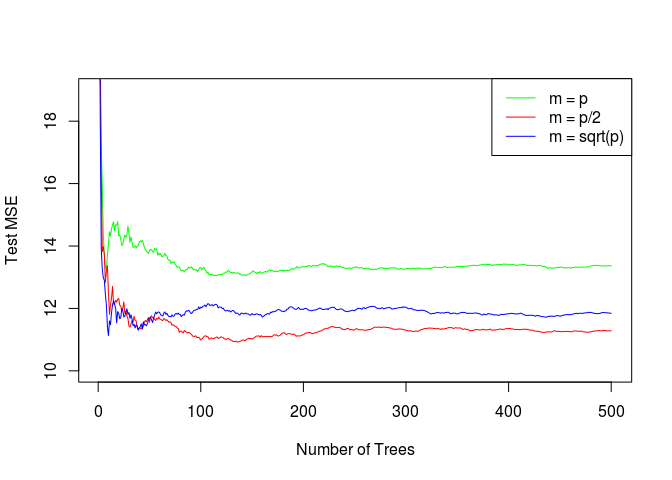
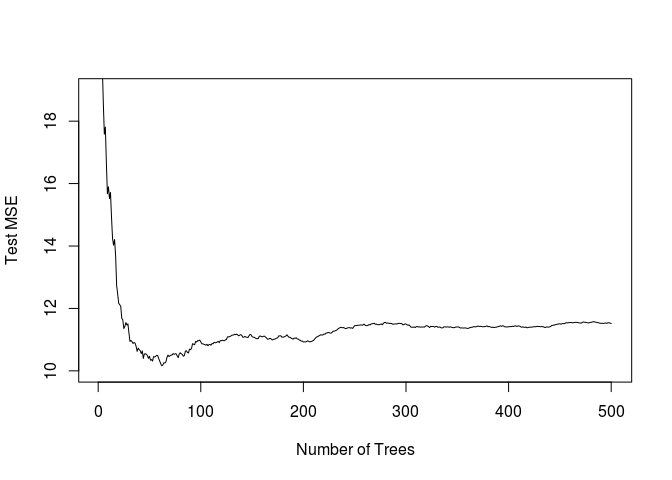
Homework 4 complete

diff --git a/homework-4.md b/homework-4.md
@@ -15,7 +15,7 @@ Answer 1
 
 ``` r
 set.seed(1234)
-
+?randomForest
 for (k in 1:20){
   inTraining <- createDataPartition(Boston$medv, p = .75, list = F)
   train_boston <- Boston[inTraining, ]
@@ -29,11 +29,11 @@ for (k in 1:20){
   for(i in 1:7){
     cat(sprintf('Trial: %s, mtry: %s --- %s\n', k, mtry[i], Sys.time()))
     for(j in 1:20){ 
-      rf_train <- randomForest(medv ~ .,
+      rf_train1 <- randomForest(medv ~ .,
                                data = train_boston,
                                mtry = mtry[i],
                                ntree = ntree[j])
-      mse <- mean((predict(rf_train, newdata = test_boston) - test_boston$medv)^2)
+      mse <- mean((predict(rf_train1, newdata = test_boston) - test_boston$medv)^2)
       results[(i-1)*20 + j, ] <- c(k, mtry[i], ntree[j], mse)
     }
   }
@@ -43,149 +43,158 @@ for (k in 1:20){
   else(
   results_total <- results
   )
+  #plot(1:500, rf_train1$mse, type = "l", xlab = "Number of Trees", ylab = "Test MSE", ylim = c(10, 19))
 }
 ```
 
-    ## Trial: 1, mtry: 3 --- 2019-03-10 11:48:28
-    ## Trial: 1, mtry: 4 --- 2019-03-10 11:48:32
-    ## Trial: 1, mtry: 5 --- 2019-03-10 11:48:38
-    ## Trial: 1, mtry: 6 --- 2019-03-10 11:48:45
-    ## Trial: 1, mtry: 7 --- 2019-03-10 11:48:52
-    ## Trial: 1, mtry: 8 --- 2019-03-10 11:49:01
-    ## Trial: 1, mtry: 9 --- 2019-03-10 11:49:10
-    ## Trial: 2, mtry: 3 --- 2019-03-10 11:49:21
-    ## Trial: 2, mtry: 4 --- 2019-03-10 11:49:25
-    ## Trial: 2, mtry: 5 --- 2019-03-10 11:49:31
-    ## Trial: 2, mtry: 6 --- 2019-03-10 11:49:37
-    ## Trial: 2, mtry: 7 --- 2019-03-10 11:49:45
-    ## Trial: 2, mtry: 8 --- 2019-03-10 11:49:53
-    ## Trial: 2, mtry: 9 --- 2019-03-10 11:50:03
-    ## Trial: 3, mtry: 3 --- 2019-03-10 11:50:13
-    ## Trial: 3, mtry: 4 --- 2019-03-10 11:50:18
-    ## Trial: 3, mtry: 5 --- 2019-03-10 11:50:23
-    ## Trial: 3, mtry: 6 --- 2019-03-10 11:50:30
-    ## Trial: 3, mtry: 7 --- 2019-03-10 11:50:37
-    ## Trial: 3, mtry: 8 --- 2019-03-10 11:50:46
-    ## Trial: 3, mtry: 9 --- 2019-03-10 11:50:55
-    ## Trial: 4, mtry: 3 --- 2019-03-10 11:51:05
-    ## Trial: 4, mtry: 4 --- 2019-03-10 11:51:10
-    ## Trial: 4, mtry: 5 --- 2019-03-10 11:51:16
-    ## Trial: 4, mtry: 6 --- 2019-03-10 11:51:22
-    ## Trial: 4, mtry: 7 --- 2019-03-10 11:51:30
-    ## Trial: 4, mtry: 8 --- 2019-03-10 11:51:38
-    ## Trial: 4, mtry: 9 --- 2019-03-10 11:51:48
-    ## Trial: 5, mtry: 3 --- 2019-03-10 11:51:58
-    ## Trial: 5, mtry: 4 --- 2019-03-10 11:52:03
-    ## Trial: 5, mtry: 5 --- 2019-03-10 11:52:08
-    ## Trial: 5, mtry: 6 --- 2019-03-10 11:52:15
-    ## Trial: 5, mtry: 7 --- 2019-03-10 11:52:23
-    ## Trial: 5, mtry: 8 --- 2019-03-10 11:52:31
-    ## Trial: 5, mtry: 9 --- 2019-03-10 11:52:40
-    ## Trial: 6, mtry: 3 --- 2019-03-10 11:52:50
-    ## Trial: 6, mtry: 4 --- 2019-03-10 11:52:55
-    ## Trial: 6, mtry: 5 --- 2019-03-10 11:53:01
-    ## Trial: 6, mtry: 6 --- 2019-03-10 11:53:07
-    ## Trial: 6, mtry: 7 --- 2019-03-10 11:53:15
-    ## Trial: 6, mtry: 8 --- 2019-03-10 11:53:23
-    ## Trial: 6, mtry: 9 --- 2019-03-10 11:53:33
-    ## Trial: 7, mtry: 3 --- 2019-03-10 11:53:43
-    ## Trial: 7, mtry: 4 --- 2019-03-10 11:53:48
-    ## Trial: 7, mtry: 5 --- 2019-03-10 11:53:53
-    ## Trial: 7, mtry: 6 --- 2019-03-10 11:54:00
-    ## Trial: 7, mtry: 7 --- 2019-03-10 11:54:07
-    ## Trial: 7, mtry: 8 --- 2019-03-10 11:54:15
-    ## Trial: 7, mtry: 9 --- 2019-03-10 11:54:25
-    ## Trial: 8, mtry: 3 --- 2019-03-10 11:54:35
-    ## Trial: 8, mtry: 4 --- 2019-03-10 11:54:40
-    ## Trial: 8, mtry: 5 --- 2019-03-10 11:54:45
-    ## Trial: 8, mtry: 6 --- 2019-03-10 11:54:52
-    ## Trial: 8, mtry: 7 --- 2019-03-10 11:54:59
-    ## Trial: 8, mtry: 8 --- 2019-03-10 11:55:07
-    ## Trial: 8, mtry: 9 --- 2019-03-10 11:55:16
-    ## Trial: 9, mtry: 3 --- 2019-03-10 11:55:27
-    ## Trial: 9, mtry: 4 --- 2019-03-10 11:55:31
-    ## Trial: 9, mtry: 5 --- 2019-03-10 11:55:37
-    ## Trial: 9, mtry: 6 --- 2019-03-10 11:55:43
-    ## Trial: 9, mtry: 7 --- 2019-03-10 11:55:50
-    ## Trial: 9, mtry: 8 --- 2019-03-10 11:55:59
-    ## Trial: 9, mtry: 9 --- 2019-03-10 11:56:08
-    ## Trial: 10, mtry: 3 --- 2019-03-10 11:56:18
-    ## Trial: 10, mtry: 4 --- 2019-03-10 11:56:22
-    ## Trial: 10, mtry: 5 --- 2019-03-10 11:56:28
-    ## Trial: 10, mtry: 6 --- 2019-03-10 11:56:34
-    ## Trial: 10, mtry: 7 --- 2019-03-10 11:56:42
-    ## Trial: 10, mtry: 8 --- 2019-03-10 11:56:50
-    ## Trial: 10, mtry: 9 --- 2019-03-10 11:57:00
-    ## Trial: 11, mtry: 3 --- 2019-03-10 11:57:10
-    ## Trial: 11, mtry: 4 --- 2019-03-10 11:57:14
-    ## Trial: 11, mtry: 5 --- 2019-03-10 11:57:20
-    ## Trial: 11, mtry: 6 --- 2019-03-10 11:57:27
-    ## Trial: 11, mtry: 7 --- 2019-03-10 11:57:34
-    ## Trial: 11, mtry: 8 --- 2019-03-10 11:57:43
-    ## Trial: 11, mtry: 9 --- 2019-03-10 11:57:52
-    ## Trial: 12, mtry: 3 --- 2019-03-10 11:58:02
-    ## Trial: 12, mtry: 4 --- 2019-03-10 11:58:07
-    ## Trial: 12, mtry: 5 --- 2019-03-10 11:58:12
-    ## Trial: 12, mtry: 6 --- 2019-03-10 11:58:19
-    ## Trial: 12, mtry: 7 --- 2019-03-10 11:58:27
-    ## Trial: 12, mtry: 8 --- 2019-03-10 11:58:35
-    ## Trial: 12, mtry: 9 --- 2019-03-10 11:58:44
-    ## Trial: 13, mtry: 3 --- 2019-03-10 11:58:54
-    ## Trial: 13, mtry: 4 --- 2019-03-10 11:58:59
-    ## Trial: 13, mtry: 5 --- 2019-03-10 11:59:05
-    ## Trial: 13, mtry: 6 --- 2019-03-10 11:59:12
-    ## Trial: 13, mtry: 7 --- 2019-03-10 11:59:19
-    ## Trial: 13, mtry: 8 --- 2019-03-10 11:59:27
-    ## Trial: 13, mtry: 9 --- 2019-03-10 11:59:36
-    ## Trial: 14, mtry: 3 --- 2019-03-10 11:59:47
-    ## Trial: 14, mtry: 4 --- 2019-03-10 11:59:51
-    ## Trial: 14, mtry: 5 --- 2019-03-10 11:59:57
-    ## Trial: 14, mtry: 6 --- 2019-03-10 12:00:03
-    ## Trial: 14, mtry: 7 --- 2019-03-10 12:00:10
-    ## Trial: 14, mtry: 8 --- 2019-03-10 12:00:19
-    ## Trial: 14, mtry: 9 --- 2019-03-10 12:00:28
-    ## Trial: 15, mtry: 3 --- 2019-03-10 12:00:38
-    ## Trial: 15, mtry: 4 --- 2019-03-10 12:00:43
-    ## Trial: 15, mtry: 5 --- 2019-03-10 12:00:48
-    ## Trial: 15, mtry: 6 --- 2019-03-10 12:00:54
-    ## Trial: 15, mtry: 7 --- 2019-03-10 12:01:02
-    ## Trial: 15, mtry: 8 --- 2019-03-10 12:01:10
-    ## Trial: 15, mtry: 9 --- 2019-03-10 12:01:19
-    ## Trial: 16, mtry: 3 --- 2019-03-10 12:01:30
-    ## Trial: 16, mtry: 4 --- 2019-03-10 12:01:35
-    ## Trial: 16, mtry: 5 --- 2019-03-10 12:01:40
-    ## Trial: 16, mtry: 6 --- 2019-03-10 12:01:47
-    ## Trial: 16, mtry: 7 --- 2019-03-10 12:01:54
-    ## Trial: 16, mtry: 8 --- 2019-03-10 12:02:03
-    ## Trial: 16, mtry: 9 --- 2019-03-10 12:02:12
-    ## Trial: 17, mtry: 3 --- 2019-03-10 12:02:23
-    ## Trial: 17, mtry: 4 --- 2019-03-10 12:02:27
-    ## Trial: 17, mtry: 5 --- 2019-03-10 12:02:33
-    ## Trial: 17, mtry: 6 --- 2019-03-10 12:02:39
-    ## Trial: 17, mtry: 7 --- 2019-03-10 12:02:46
-    ## Trial: 17, mtry: 8 --- 2019-03-10 12:02:55
-    ## Trial: 17, mtry: 9 --- 2019-03-10 12:03:04
-    ## Trial: 18, mtry: 3 --- 2019-03-10 12:03:14
-    ## Trial: 18, mtry: 4 --- 2019-03-10 12:03:19
-    ## Trial: 18, mtry: 5 --- 2019-03-10 12:03:25
-    ## Trial: 18, mtry: 6 --- 2019-03-10 12:03:31
-    ## Trial: 18, mtry: 7 --- 2019-03-10 12:03:39
-    ## Trial: 18, mtry: 8 --- 2019-03-10 12:03:47
-    ## Trial: 18, mtry: 9 --- 2019-03-10 12:03:56
-    ## Trial: 19, mtry: 3 --- 2019-03-10 12:04:07
-    ## Trial: 19, mtry: 4 --- 2019-03-10 12:04:11
-    ## Trial: 19, mtry: 5 --- 2019-03-10 12:04:17
-    ## Trial: 19, mtry: 6 --- 2019-03-10 12:04:23
-    ## Trial: 19, mtry: 7 --- 2019-03-10 12:04:31
-    ## Trial: 19, mtry: 8 --- 2019-03-10 12:04:39
-    ## Trial: 19, mtry: 9 --- 2019-03-10 12:04:48
-    ## Trial: 20, mtry: 3 --- 2019-03-10 12:04:59
-    ## Trial: 20, mtry: 4 --- 2019-03-10 12:05:03
-    ## Trial: 20, mtry: 5 --- 2019-03-10 12:05:09
-    ## Trial: 20, mtry: 6 --- 2019-03-10 12:05:16
-    ## Trial: 20, mtry: 7 --- 2019-03-10 12:05:23
-    ## Trial: 20, mtry: 8 --- 2019-03-10 12:05:32
-    ## Trial: 20, mtry: 9 --- 2019-03-10 12:05:41
+    ## Trial: 1, mtry: 3 --- 2019-03-10 17:32:10
+    ## Trial: 1, mtry: 4 --- 2019-03-10 17:32:15
+    ## Trial: 1, mtry: 5 --- 2019-03-10 17:32:21
+    ## Trial: 1, mtry: 6 --- 2019-03-10 17:32:27
+    ## Trial: 1, mtry: 7 --- 2019-03-10 17:32:35
+    ## Trial: 1, mtry: 8 --- 2019-03-10 17:32:43
+    ## Trial: 1, mtry: 9 --- 2019-03-10 17:32:52
+    ## Trial: 2, mtry: 3 --- 2019-03-10 17:33:02
+    ## Trial: 2, mtry: 4 --- 2019-03-10 17:33:07
+    ## Trial: 2, mtry: 5 --- 2019-03-10 17:33:13
+    ## Trial: 2, mtry: 6 --- 2019-03-10 17:33:19
+    ## Trial: 2, mtry: 7 --- 2019-03-10 17:33:27
+    ## Trial: 2, mtry: 8 --- 2019-03-10 17:33:35
+    ## Trial: 2, mtry: 9 --- 2019-03-10 17:33:45
+    ## Trial: 3, mtry: 3 --- 2019-03-10 17:33:55
+    ## Trial: 3, mtry: 4 --- 2019-03-10 17:34:00
+    ## Trial: 3, mtry: 5 --- 2019-03-10 17:34:05
+    ## Trial: 3, mtry: 6 --- 2019-03-10 17:34:12
+    ## Trial: 3, mtry: 7 --- 2019-03-10 17:34:19
+    ## Trial: 3, mtry: 8 --- 2019-03-10 17:34:28
+    ## Trial: 3, mtry: 9 --- 2019-03-10 17:34:37
+    ## Trial: 4, mtry: 3 --- 2019-03-10 17:34:47
+    ## Trial: 4, mtry: 4 --- 2019-03-10 17:34:52
+    ## Trial: 4, mtry: 5 --- 2019-03-10 17:34:58
+    ## Trial: 4, mtry: 6 --- 2019-03-10 17:35:04
+    ## Trial: 4, mtry: 7 --- 2019-03-10 17:35:12
+    ## Trial: 4, mtry: 8 --- 2019-03-10 17:35:20
+    ## Trial: 4, mtry: 9 --- 2019-03-10 17:35:30
+    ## Trial: 5, mtry: 3 --- 2019-03-10 17:35:40
+    ## Trial: 5, mtry: 4 --- 2019-03-10 17:35:44
+    ## Trial: 5, mtry: 5 --- 2019-03-10 17:35:50
+    ## Trial: 5, mtry: 6 --- 2019-03-10 17:35:57
+    ## Trial: 5, mtry: 7 --- 2019-03-10 17:36:04
+    ## Trial: 5, mtry: 8 --- 2019-03-10 17:36:13
+    ## Trial: 5, mtry: 9 --- 2019-03-10 17:36:22
+    ## Trial: 6, mtry: 3 --- 2019-03-10 17:36:32
+    ## Trial: 6, mtry: 4 --- 2019-03-10 17:36:37
+    ## Trial: 6, mtry: 5 --- 2019-03-10 17:36:43
+    ## Trial: 6, mtry: 6 --- 2019-03-10 17:36:49
+    ## Trial: 6, mtry: 7 --- 2019-03-10 17:36:57
+    ## Trial: 6, mtry: 8 --- 2019-03-10 17:37:06
+    ## Trial: 6, mtry: 9 --- 2019-03-10 17:37:15
+    ## Trial: 7, mtry: 3 --- 2019-03-10 17:37:25
+    ## Trial: 7, mtry: 4 --- 2019-03-10 17:37:30
+    ## Trial: 7, mtry: 5 --- 2019-03-10 17:37:36
+    ## Trial: 7, mtry: 6 --- 2019-03-10 17:37:42
+    ## Trial: 7, mtry: 7 --- 2019-03-10 17:37:50
+    ## Trial: 7, mtry: 8 --- 2019-03-10 17:37:58
+    ## Trial: 7, mtry: 9 --- 2019-03-10 17:38:08
+    ## Trial: 8, mtry: 3 --- 2019-03-10 17:38:18
+    ## Trial: 8, mtry: 4 --- 2019-03-10 17:38:22
+    ## Trial: 8, mtry: 5 --- 2019-03-10 17:38:28
+    ## Trial: 8, mtry: 6 --- 2019-03-10 17:38:34
+    ## Trial: 8, mtry: 7 --- 2019-03-10 17:38:42
+    ## Trial: 8, mtry: 8 --- 2019-03-10 17:38:51
+    ## Trial: 8, mtry: 9 --- 2019-03-10 17:39:00
+    ## Trial: 9, mtry: 3 --- 2019-03-10 17:39:10
+    ## Trial: 9, mtry: 4 --- 2019-03-10 17:39:15
+    ## Trial: 9, mtry: 5 --- 2019-03-10 17:39:20
+    ## Trial: 9, mtry: 6 --- 2019-03-10 17:39:27
+    ## Trial: 9, mtry: 7 --- 2019-03-10 17:39:34
+    ## Trial: 9, mtry: 8 --- 2019-03-10 17:39:43
+    ## Trial: 9, mtry: 9 --- 2019-03-10 17:39:52
+    ## Trial: 10, mtry: 3 --- 2019-03-10 17:40:02
+    ## Trial: 10, mtry: 4 --- 2019-03-10 17:40:07
+    ## Trial: 10, mtry: 5 --- 2019-03-10 17:40:12
+    ## Trial: 10, mtry: 6 --- 2019-03-10 17:40:19
+    ## Trial: 10, mtry: 7 --- 2019-03-10 17:40:26
+    ## Trial: 10, mtry: 8 --- 2019-03-10 17:40:35
+    ## Trial: 10, mtry: 9 --- 2019-03-10 17:40:44
+    ## Trial: 11, mtry: 3 --- 2019-03-10 17:40:55
+    ## Trial: 11, mtry: 4 --- 2019-03-10 17:40:59
+    ## Trial: 11, mtry: 5 --- 2019-03-10 17:41:05
+    ## Trial: 11, mtry: 6 --- 2019-03-10 17:41:11
+    ## Trial: 11, mtry: 7 --- 2019-03-10 17:41:19
+    ## Trial: 11, mtry: 8 --- 2019-03-10 17:41:27
+    ## Trial: 11, mtry: 9 --- 2019-03-10 17:41:37
+    ## Trial: 12, mtry: 3 --- 2019-03-10 17:41:47
+    ## Trial: 12, mtry: 4 --- 2019-03-10 17:41:52
+    ## Trial: 12, mtry: 5 --- 2019-03-10 17:41:58
+    ## Trial: 12, mtry: 6 --- 2019-03-10 17:42:04
+    ## Trial: 12, mtry: 7 --- 2019-03-10 17:42:11
+    ## Trial: 12, mtry: 8 --- 2019-03-10 17:42:20
+    ## Trial: 12, mtry: 9 --- 2019-03-10 17:42:29
+    ## Trial: 13, mtry: 3 --- 2019-03-10 17:42:39
+    ## Trial: 13, mtry: 4 --- 2019-03-10 17:42:44
+    ## Trial: 13, mtry: 5 --- 2019-03-10 17:42:50
+    ## Trial: 13, mtry: 6 --- 2019-03-10 17:42:56
+    ## Trial: 13, mtry: 7 --- 2019-03-10 17:43:04
+    ## Trial: 13, mtry: 8 --- 2019-03-10 17:43:12
+    ## Trial: 13, mtry: 9 --- 2019-03-10 17:43:21
+    ## Trial: 14, mtry: 3 --- 2019-03-10 17:43:32
+    ## Trial: 14, mtry: 4 --- 2019-03-10 17:43:36
+    ## Trial: 14, mtry: 5 --- 2019-03-10 17:43:42
+    ## Trial: 14, mtry: 6 --- 2019-03-10 17:43:48
+    ## Trial: 14, mtry: 7 --- 2019-03-10 17:43:55
+    ## Trial: 14, mtry: 8 --- 2019-03-10 17:44:04
+    ## Trial: 14, mtry: 9 --- 2019-03-10 17:44:13
+    ## Trial: 15, mtry: 3 --- 2019-03-10 17:44:23
+    ## Trial: 15, mtry: 4 --- 2019-03-10 17:44:28
+    ## Trial: 15, mtry: 5 --- 2019-03-10 17:44:33
+    ## Trial: 15, mtry: 6 --- 2019-03-10 17:44:40
+    ## Trial: 15, mtry: 7 --- 2019-03-10 17:44:47
+    ## Trial: 15, mtry: 8 --- 2019-03-10 17:44:56
+    ## Trial: 15, mtry: 9 --- 2019-03-10 17:45:05
+    ## Trial: 16, mtry: 3 --- 2019-03-10 17:45:16
+    ## Trial: 16, mtry: 4 --- 2019-03-10 17:45:20
+    ## Trial: 16, mtry: 5 --- 2019-03-10 17:45:26
+    ## Trial: 16, mtry: 6 --- 2019-03-10 17:45:33
+    ## Trial: 16, mtry: 7 --- 2019-03-10 17:45:40
+    ## Trial: 16, mtry: 8 --- 2019-03-10 17:45:49
+    ## Trial: 16, mtry: 9 --- 2019-03-10 17:45:58
+    ## Trial: 17, mtry: 3 --- 2019-03-10 17:46:09
+    ## Trial: 17, mtry: 4 --- 2019-03-10 17:46:13
+    ## Trial: 17, mtry: 5 --- 2019-03-10 17:46:19
+    ## Trial: 17, mtry: 6 --- 2019-03-10 17:46:25
+    ## Trial: 17, mtry: 7 --- 2019-03-10 17:46:33
+    ## Trial: 17, mtry: 8 --- 2019-03-10 17:46:41
+    ## Trial: 17, mtry: 9 --- 2019-03-10 17:46:50
+    ## Trial: 18, mtry: 3 --- 2019-03-10 17:47:01
+    ## Trial: 18, mtry: 4 --- 2019-03-10 17:47:05
+    ## Trial: 18, mtry: 5 --- 2019-03-10 17:47:11
+    ## Trial: 18, mtry: 6 --- 2019-03-10 17:47:17
+    ## Trial: 18, mtry: 7 --- 2019-03-10 17:47:25
+    ## Trial: 18, mtry: 8 --- 2019-03-10 17:47:33
+    ## Trial: 18, mtry: 9 --- 2019-03-10 17:47:43
+    ## Trial: 19, mtry: 3 --- 2019-03-10 17:47:53
+    ## Trial: 19, mtry: 4 --- 2019-03-10 17:47:57
+    ## Trial: 19, mtry: 5 --- 2019-03-10 17:48:03
+    ## Trial: 19, mtry: 6 --- 2019-03-10 17:48:10
+    ## Trial: 19, mtry: 7 --- 2019-03-10 17:48:17
+    ## Trial: 19, mtry: 8 --- 2019-03-10 17:48:26
+    ## Trial: 19, mtry: 9 --- 2019-03-10 17:48:35
+    ## Trial: 20, mtry: 3 --- 2019-03-10 17:48:45
+    ## Trial: 20, mtry: 4 --- 2019-03-10 17:48:50
+    ## Trial: 20, mtry: 5 --- 2019-03-10 17:48:55
+    ## Trial: 20, mtry: 6 --- 2019-03-10 17:49:02
+    ## Trial: 20, mtry: 7 --- 2019-03-10 17:49:09
+    ## Trial: 20, mtry: 8 --- 2019-03-10 17:49:18
+    ## Trial: 20, mtry: 9 --- 2019-03-10 17:49:27
+
+``` r
+plot(1:500, rf_train1$mse, type = "l", xlab = "Number of Trees", ylab = "Test MSE", ylim = c(10, 19))
+```
+
+![](homework-4_files/figure-markdown_github/unnamed-chunk-1-1.png)
+
+As you can see from the plot the Test MSE decreases as the number of trees increase.
 
 Problem 2
 ---------
